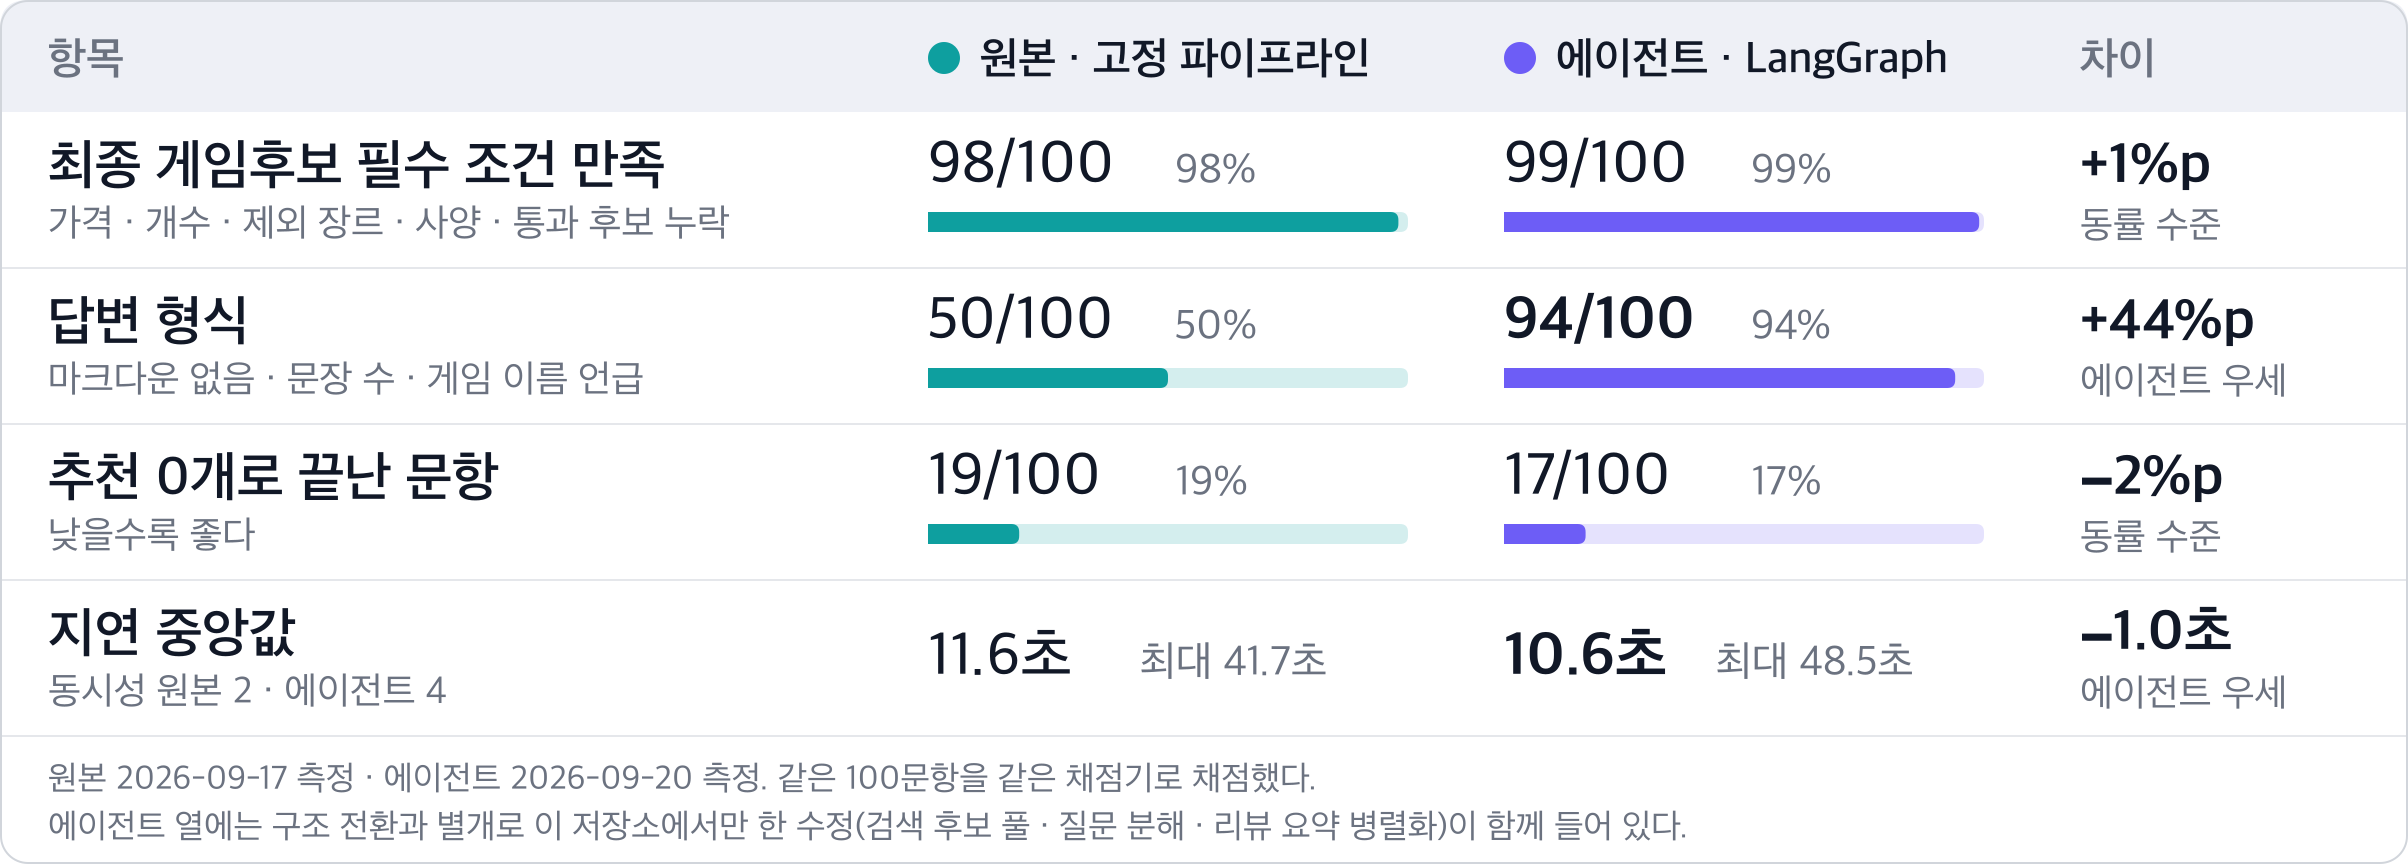
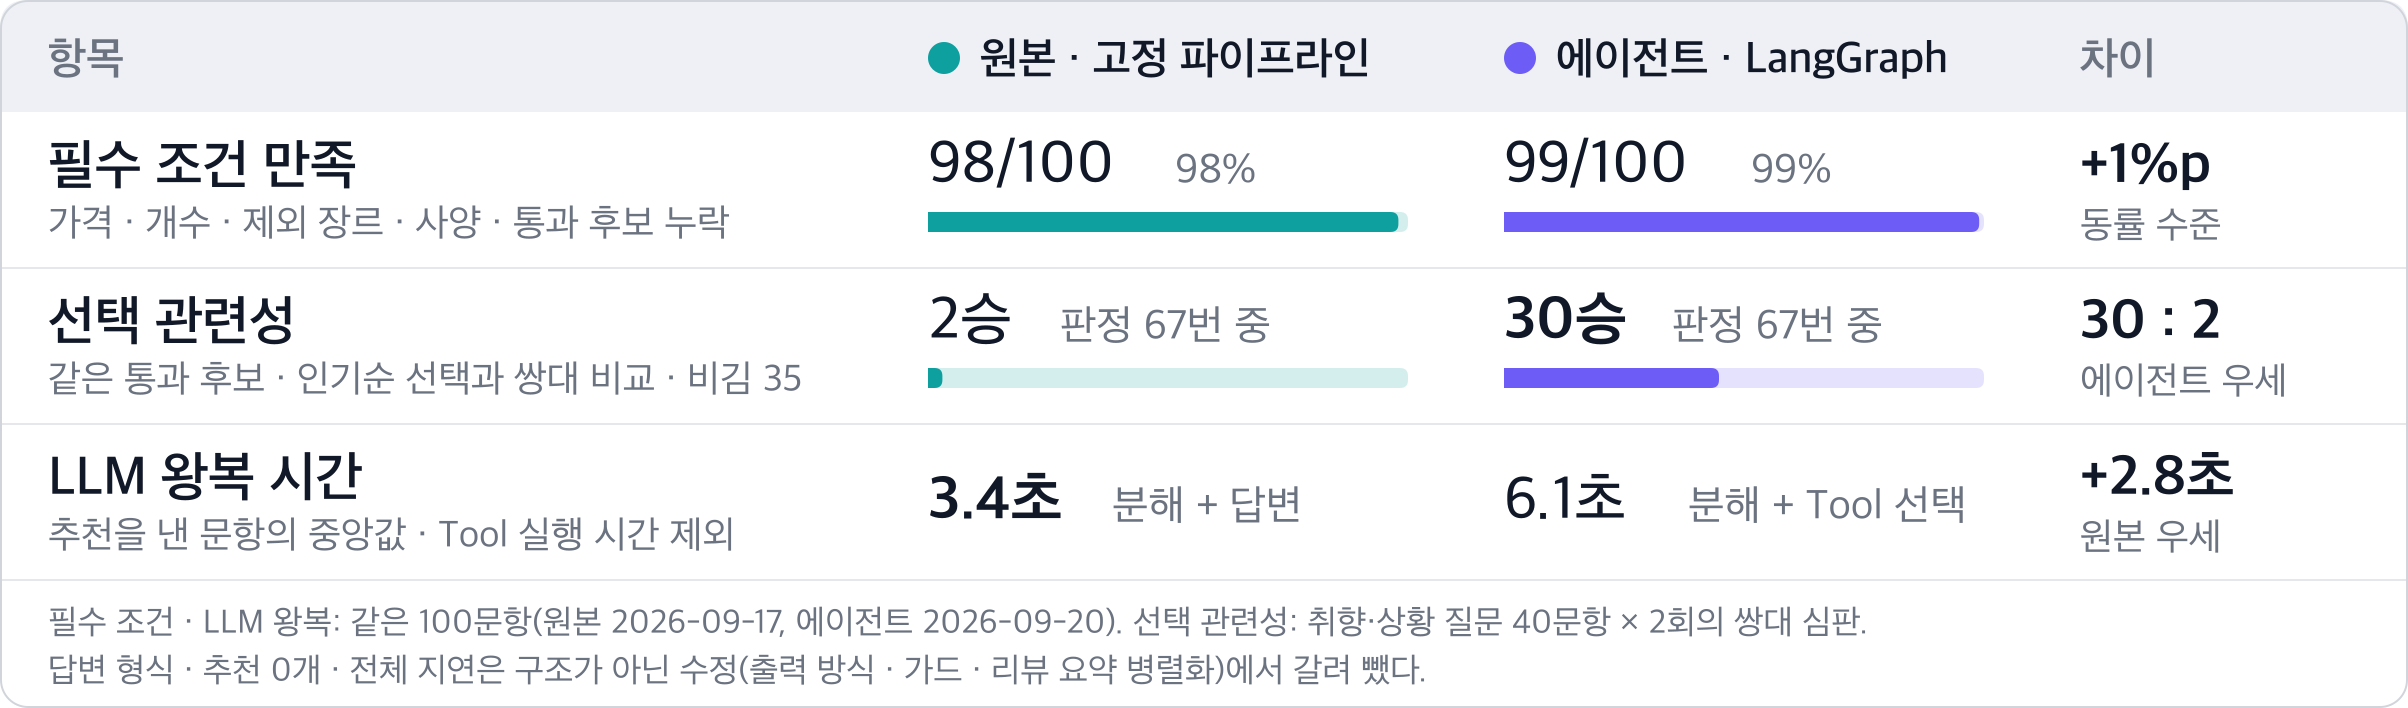
[DOCS] 비교 차트를 구조에서 나온 차이 세 행으로 다시 그린다
차트의 네 행 중 답변 형식·추천 0개·전체 지연은 고정 파이프라인과 에이전트의 구조가 아니라 이
저장소에서만 한 수정(구조화 출력 필드와 이름 되묻기, 빈 초안 되묻기와 검색 수정, 리뷰 요약 병렬화)에서
갈린 수치였다. 구조에서 나온 것만 남긴다.

- 필수 조건 만족 98 대 99: 선택을 LLM에 맡겨도 준수가 유지된다.
- 선택 관련성 2승 대 30승(비김 35): 같은 통과 후보에서 고르는 주체만 다른 쌍대 비교(evals/relevance).
- LLM 왕복 시간 3.4초 대 6.1초: 에이전트는 Tool을 고르는 왕복이 더 든다.

전체 지연은 에이전트가 더 짧지만(추천을 낸 문항 13.55초 대 11.02초) 구조의 효과와 부호가 반대다.
evals/agent_e2e/latency_breakdown.py가 저장된 단계 타임라인으로 요청당 시간을 LLM 왕복과 Tool·I/O로
나눈다. Tool·I/O가 5초 넘게 짧고 그중 3.75초가 리뷰 요약이다. 가격·사양의 병렬 실행은 원본도 한다.

REPORT에 답변 형식 차이의 원인을 기록에서 확인해 적는다. 문장 수 위반은 5개 추천에서 일반 문장을 하나
더 쓰는 것(2 + 5 = 7문장), 마크다운 위반 17건 중 15건은 자유 텍스트 답변의 굵게 표시다.

외부 API를 부르지 않았다.

diff --git a/evals/agent_e2e/latency_breakdown.py b/evals/agent_e2e/latency_breakdown.py
@@ -1,0 +1,112 @@
+"""저장된 실행 기록의 단계 타임라인으로 요청당 시간을 LLM 왕복과 Tool·I/O로 나눈다.
+
+외부 API를 부르지 않는다. 전체 지연은 두 저장소의 구조를 비교하는 수치로 쓸 수 없다. 에이전트
+저장소에만 있는 I/O 패치(리뷰 요약 병렬화 등)가 Tool 쪽 시간을 줄이기 때문이다. 구조가 만드는 차이는
+LLM 왕복에 있으므로 둘을 나눠서 본다.
+
+- LLM 왕복
+  - 원본(고정 파이프라인): `질문 분해` + `최종 답변 생성`
+  - 에이전트: `질문 분해` + `에이전트 추론` 구간에서 Tool 단계가 돌지 않은 시간(Tool을 고르는 왕복)
+- Tool·I/O: Tool 단계 구간의 합집합. 병렬로 돈 단계는 겹친 만큼 한 번만 센다.
+  사양 판정과 리뷰 요약 안의 LLM 호출은 두 저장소 모두 Tool 단계 안에 있어 이쪽에 들어간다.
+
+빈 추천은 Tool을 거의 돌리지 않고 끝나므로 기본으로 추천을 낸 문항만 본다.
+
+    .venv/bin/python -m evals.agent_e2e.latency_breakdown evals/agent_e2e/runs/<UTC timestamp> [...]
+"""
+
+import argparse
+import json
+import statistics
+from pathlib import Path
+
+PARSE_STAGE = "질문 분해"
+AGENT_STAGE = "에이전트 추론"
+ANSWER_STAGE = "최종 답변 생성"
+TOOL_STAGES = frozenset({"게임 검색", "가격", "하드웨어", "리뷰 점수", "리뷰 요약", "미디어"})
+
+Span = tuple[float, float]
+
+
+def spans(stages: list[dict]) -> dict[str, list[Span]]:
+    """단계별 (시작, 끝) 목록. 같은 단계가 여러 번 나오면 시작한 순서대로 짝을 짓는다."""
+    started: dict[str, list[float]] = {}
+    found: dict[str, list[Span]] = {}
+    for event in stages:
+        stage = event["stage"]
+        if event["status"] == "started":
+            started.setdefault(stage, []).append(event["t"])
+        elif started.get(stage):
+            found.setdefault(stage, []).append((started[stage].pop(0), event["t"]))
+    return found
+
+
+def covered(intervals: list[Span]) -> float:
+    """구간들의 합집합 길이. 겹친 부분은 한 번만 센다."""
+    total, end = 0.0, None
+    for start, stop in sorted(intervals):
+        if end is None or start > end:
+            total += stop - start
+            end = stop
+        elif stop > end:
+            total += stop - end
+            end = stop
+    return total
+
+
+def breakdown(stages: list[dict]) -> dict[str, float]:
+    """기록 하나의 LLM 왕복·Tool 시간. `에이전트 추론` 단계가 있으면 에이전트 기록으로 본다."""
+    found = spans(stages)
+    tools = [span for stage in TOOL_STAGES for span in found.get(stage, [])]
+    llm = sum(stop - start for start, stop in found.get(PARSE_STAGE, []))
+    if AGENT_STAGE in found:
+        begin, finish = found[AGENT_STAGE][0]
+        inside = [
+            (max(start, begin), min(stop, finish))
+            for start, stop in tools
+            if start < finish and stop > begin
+        ]
+        llm += (finish - begin) - covered(inside)
+    else:
+        llm += sum(stop - start for start, stop in found.get(ANSWER_STAGE, []))
+    reviews = sum(stop - start for start, stop in found.get("리뷰 요약", []))
+    return {"llm": llm, "tools": covered(tools), "reviews": reviews}
+
+
+def summarize(records: list[dict], *, with_games_only: bool = True) -> dict:
+    scored = [record for record in records if not record.get("error")]
+    if with_games_only:
+        scored = [record for record in scored if record.get("recommended_count")]
+    parts = [breakdown(record["stages"]) for record in scored]
+
+    def median(values: list[float]) -> float | None:
+        return round(statistics.median(values), 2) if values else None
+
+    return {
+        "scored": len(scored),
+        "total_median": median([record["seconds"] for record in scored]),
+        "llm_median": median([part["llm"] for part in parts]),
+        "tools_median": median([part["tools"] for part in parts]),
+        "reviews_median": median([part["reviews"] for part in parts]),
+    }
+
+
+def main() -> None:
+    parser = argparse.ArgumentParser(description=__doc__.splitlines()[0])
+    parser.add_argument("run_dirs", nargs="+", type=Path)
+    parser.add_argument("--all", action="store_true", help="추천 0개로 끝난 문항도 넣는다")
+    args = parser.parse_args()
+    for run_dir in args.run_dirs:
+        lines = (run_dir / "results.jsonl").read_text(encoding="utf-8").splitlines()
+        summary = summarize(
+            [json.loads(line) for line in lines if line.strip()], with_games_only=not args.all
+        )
+        print(
+            f"{run_dir.name}: {summary['scored']}문항 · 전체 {summary['total_median']}초 · "
+            f"LLM 왕복 {summary['llm_median']}초 · Tool·I/O {summary['tools_median']}초"
+            f"(그중 리뷰 요약 {summary['reviews_median']}초)"
+        )
+
+
+if __name__ == "__main__":
+    main()

diff --git a/evals/agent_e2e/test_latency_breakdown.py b/evals/agent_e2e/test_latency_breakdown.py
@@ -1,0 +1,71 @@
+"""지연 분해의 순수 로직. 저장된 기록의 단계 타임라인만 쓴다."""
+
+import pytest
+
+from evals.agent_e2e.latency_breakdown import breakdown, covered, summarize
+
+
+def ev(t, stage, status):
+    return {"t": t, "stage": stage, "status": status, "detail": None}
+
+
+def timeline(*rows):
+    """(단계, 시작, 끝) 목록을 시각순 이벤트로 바꾼다."""
+    events = [ev(start, stage, "started") for stage, start, _ in rows]
+    events += [ev(stop, stage, "completed") for stage, _, stop in rows]
+    return sorted(events, key=lambda event: (event["t"], event["status"] != "started"))
+
+
+def test_covered_counts_overlap_once():
+    assert covered([(1.0, 3.0), (2.0, 4.0), (6.0, 7.0)]) == 4.0
+    assert covered([(1.0, 5.0), (2.0, 3.0)]) == 4.0
+    assert covered([]) == 0.0
+
+
+def test_baseline_llm_time_is_parsing_plus_final_answer():
+    stages = timeline(
+        ("질문 분해", 0.0, 1.0),
+        ("게임 검색", 1.0, 3.0),
+        ("가격", 3.0, 4.0),
+        ("리뷰 요약", 4.0, 10.0),
+        ("최종 답변 생성", 10.0, 12.5),
+    )
+    assert breakdown(stages) == pytest.approx({"llm": 3.5, "tools": 9.0, "reviews": 6.0})
+
+
+def test_agent_llm_time_is_the_reasoning_span_without_tools():
+    # 가격·사양은 같은 턴에 병렬로 돈다. 추론이 끝난 뒤의 리뷰 요약은 러너가 부른 것이다
+    stages = timeline(
+        ("질문 분해", 0.0, 1.0),
+        ("에이전트 추론", 1.0, 9.0),
+        ("게임 검색", 2.0, 4.0),
+        ("가격", 5.0, 6.0),
+        ("하드웨어", 5.0, 6.5),
+        ("리뷰 요약", 9.0, 11.0),
+    )
+    # 추론 8초 중 Tool이 돈 시간은 2 + 1.5초다
+    assert breakdown(stages) == pytest.approx({"llm": 5.5, "tools": 5.5, "reviews": 2.0})
+
+
+def test_failed_tool_stage_still_counts_as_tool_time():
+    stages = [
+        ev(0.0, "질문 분해", "started"),
+        ev(1.0, "질문 분해", "completed"),
+        ev(1.0, "에이전트 추론", "started"),
+        ev(2.0, "리뷰 요약", "started"),
+        ev(5.0, "리뷰 요약", "failed"),
+        ev(6.0, "에이전트 추론", "completed"),
+    ]
+    assert breakdown(stages) == pytest.approx({"llm": 3.0, "tools": 3.0, "reviews": 3.0})
+
+
+def test_summary_skips_errors_and_empty_recommendations():
+    stages = timeline(("질문 분해", 0.0, 1.0), ("최종 답변 생성", 1.0, 2.0))
+    records = [
+        {"id": "E1", "seconds": 2.0, "recommended_count": 2, "stages": stages},
+        {"id": "E2", "seconds": 1.0, "recommended_count": 0, "stages": stages},
+        {"id": "E3", "seconds": 9.0, "error": "X: y"},
+    ]
+    assert summarize(records)["scored"] == 1
+    assert summarize(records, with_games_only=False)["scored"] == 2
+    assert summarize([])["llm_median"] is None

diff --git a/evals/agent_e2e/REPORT.md b/evals/agent_e2e/REPORT.md
@@ -697,7 +697,8 @@ Tool을 실행하지 않고 안내 문장을 돌려주고, 한 번 거부된 Too
 | 지연 중앙값 (추천을 낸 문항만) | 11.57초 (13.55초) | 10.57초 (11.02초) |
 | 동시성 | 2 | 4 |
 
-`docs/eval_comparison.*`의 네 행(조건, 답변 형식, 추천 0개, 지연 중앙값)을 이 표의 수치로 바꿨다.
+`docs/eval_comparison.*`의 네 행(조건, 답변 형식, 추천 0개, 지연 중앙값)을 이 표의 수치로 바꿨다가, 같은 날
+구조에서 나온 차이만 남기도록 다시 그렸다([아래 절](#차트를-구조에서-나온-차이-세-행으로-다시-그렸다)).
 
 **이 표는 두 서비스의 비교이지 두 구조의 비교가 아니다.** 에이전트 쪽에는 이 저장소에서만 한 수정이 함께
 들어 있다. 검색 후보 풀 교체(`sort id asc` → 많이 평가된 순), 질문 분해의 제외 표현, 분류 id 검색,
@@ -713,5 +714,49 @@ Tool을 실행하지 않고 안내 문장을 돌려주고, 한 번 거부된 Too
 | 마크다운·표·링크 | 17 | 1 |
 | 추천한 게임 이름이 답변에 없음 | 11 | 5 |
 
-원본의 답변 프롬프트에도 "마크다운 없이 3~6문장"이 적혀 있다. 규칙이 없어서 생긴 차이는 아니고, 원인은
-이 측정으로는 알 수 없다. 에이전트의 이름 누락은 러너가 한 번 되물은 뒤에도 남은 것이다.
+원본의 답변 프롬프트에도 "마크다운 없이 3~6문장, 첫 문장은 조건과 개수, 게임마다 한 줄 이유"가 적혀
+있다. 규칙이 없어서 생긴 차이가 아니다. 기록의 답변을 뜯어 보면 이렇다.
+
+- **문장 수 33건은 모두 너무 긴 쪽이고, 5개를 추천할 때 몰려 있다**(5개 추천 49건 중 29건이 6문장 초과).
+  게임마다 한 문장씩 쓰는 것은 두 쪽이 같다(게임을 말하는 문장이 5개인 답변: 원본 28/49, 에이전트 29/48).
+  다른 것은 게임 이름이 없는 일반 문장의 수다. 원본은 2개 이상이 47/49이고 에이전트는 1개(첫 문장)가
+  41/48이다. 2 + 5 = 7문장과 1 + 5 = 6문장, 상한에서 한 문장 차이다.
+- **마크다운 17건 중 15건은 게임 이름을 `**굵게**` 쓴 것이다.** 원본은 답변을 자유 텍스트로 받고
+  (`responses.create`의 `output_text`), 에이전트는 구조화 출력의 `answer` 필드에 쓴다. 두 프롬프트 모두
+  제목·표·링크만 금지하고 굵게는 말하지 않는다.
+- **이름 누락은 러너가 한 번 되묻기 때문에 적다.** 에이전트의 5건은 되물은 뒤에도 남은 것이고, 되묻기를
+  넣기 전에는 16~32문항이었다.
+
+세 가지 모두 원본에도 옮길 수 있는 선택(출력 방식, 가드)이다. 에이전트 구조에서 나온 차이가 아니다.
+
+### 차트를 구조에서 나온 차이 세 행으로 다시 그렸다
+
+위 표의 차이는 대부분 구조가 아니라 이 저장소에서만 한 수정에서 나온다. 그래서 `docs/eval_comparison.*`에는
+고정 파이프라인과 에이전트의 **구조에서 나온 수치만** 남겼다.
+
+| 행 | 원본 | 에이전트 | 왜 구조의 차이인가 |
+| --- | --- | --- | --- |
+| 필수 조건 만족 | 98/100 | 99/100 | 선택을 LLM에 맡겨도 준수가 유지된다(판정·후검증은 코드) |
+| 선택 관련성 | 2승 | 30승 (비김 35) | 같은 통과 후보·같은 판정에서 고르는 주체만 다르다 ([evals/relevance](../relevance/REPORT.md)) |
+| LLM 왕복 시간 | 3.35초 | 6.12초 | 에이전트는 Tool을 고르는 왕복이 더 든다 |
+
+뺀 행은 답변 형식(출력 방식과 가드, 위 분석), 추천 0개(빈 초안 되묻기와 검색 수정. 지금은 19 대 17로
+동률 수준), 전체 지연이다.
+
+**전체 지연은 구조의 효과와 부호가 반대다.** [latency_breakdown.py](latency_breakdown.py)가 단계 타임라인으로
+요청당 시간을 나눈다(추천을 낸 문항의 중앙값, 외부 API를 부르지 않는다).
+
+| | 문항 | 전체 | LLM 왕복 | Tool·I/O | 그중 리뷰 요약 |
+| --- | --- | --- | --- | --- | --- |
+| 원본 `20260917T075948Z` (동시성 2) | 81 | 13.55초 | 3.35초 | 10.07초 | 5.96초 |
+| 에이전트 `20260919T161404Z` (동시성 2) | 82 | 10.96초 | 6.11초 | 4.59초 | 2.21초 |
+| 에이전트 `20260919T171421Z` (동시성 4) | 83 | 11.02초 | 6.12초 | 4.69초 | 2.21초 |
+
+- LLM 왕복은 원본이 `질문 분해` + `최종 답변 생성`, 에이전트가 `질문 분해` + `에이전트 추론` 구간에서 Tool
+  단계가 돌지 않은 시간이다. 사양 판정과 리뷰 요약 안의 LLM 호출은 두 저장소 모두 Tool 단계 안에 있어
+  Tool·I/O로 센다.
+- 에이전트가 전체로 더 빠른 것은 Tool·I/O가 5초 넘게 짧아서다. 그중 3.75초는 리뷰 요약이다(5.96 → 2.21초).
+  게임별 병렬 호출은 이 저장소에만 있는 패치다. 나머지 1.6초쯤은 나누어 재지 않았다(이 저장소에는 사양
+  조회 묶음과 IGDB 토큰 재사용(#26) 같은 I/O 패치가 더 있다). 가격·사양의 병렬 실행은 원본도 한다(97문항에서
+  두 단계가 같은 시각에 시작한다). 구조가 더한 것은 LLM 왕복 +2.77초다.
+- 동시성이 다른 두 에이전트 기록에서 분해 결과가 거의 같다. 이 비교는 동시성 설정에 기대지 않는다.

diff --git a/README.md b/README.md
@@ -76,16 +76,28 @@ QR을 찍으면 배포된 프론트엔드
   복합 조건 질문에서 원본은 20개, 에이전트는 19개를 제외 근거로 남깁니다.
 
 2026-09-17의 에이전트 측정(19.7~40.1초. 같은 Tool을 되풀이해 부르고, LLM이 고른 후보만 조회하던 때)은
-REPORT에 그대로 남겨 두었습니다. 100문항 평가로 본 전후 비교는 아래 그림이고, 근거는
-[evals/agent_e2e/REPORT.md](evals/agent_e2e/REPORT.md)와 [evals/search_pool/REPORT.md](evals/search_pool/REPORT.md)에
-있습니다.
+REPORT에 그대로 남겨 두었습니다.
 
-![엔드투엔드 100문항 평가의 원본·에이전트 비교](docs/eval_comparison.png)
+### 구조에서 나온 차이
 
-에이전트 열의 수치에는 구조 전환과 별개로 이 저장소에서만 한 수정(검색 후보 풀 교체, 질문 분해의 제외
-표현, 리뷰 요약 병렬화)이 함께 들어 있습니다. 구조에서 나온 차이만 따로 잰 것은
-[evals/relevance/REPORT.md](evals/relevance/REPORT.md)입니다(같은 통과 후보에서 에이전트의 선택과 인기순
-선택을 쌍대 비교). 그림을 고칠 때는 [SVG](docs/eval_comparison.svg)를 씁니다.
+![고정 파이프라인과 에이전트의 구조에서 나온 차이](docs/eval_comparison.png)
+
+두 저장소의 수치 중 **구조(고정 파이프라인 대 LLM이 도구를 고르는 에이전트)에서 나온 것만** 남긴 그림입니다.
+고칠 때는 [SVG](docs/eval_comparison.svg)를 씁니다.
+
+- **필수 조건 만족은 동률입니다(98 대 99).** 선택을 LLM에 맡겨도 가격·사양·개수·제외 조건의 준수가 깨지지
+  않습니다. 판정과 후검증을 코드가 하기 때문입니다.
+- **선택 관련성이 구조의 이득입니다.** 같은 통과 후보에서 에이전트가 고른 목록과, 고정 파이프라인이 했을
+  선택(인기순으로 자른 목록)을 LLM 심판이 자리를 바꿔 두 번 비교했습니다. 판정 67번 중 에이전트 30승,
+  인기순 2승, 비김 35입니다([evals/relevance/REPORT.md](evals/relevance/REPORT.md)).
+- **LLM 왕복 시간이 구조의 비용입니다.** 원본은 질문 분해와 최종 답변에 3.4초, 에이전트는 질문 분해와
+  Tool을 고르는 추론에 6.1초를 씁니다(추천을 낸 문항의 중앙값,
+  [latency_breakdown.py](evals/agent_e2e/latency_breakdown.py)).
+
+답변 형식(50 대 94), 추천 0개(19 대 17), 전체 지연(11.6초 대 10.6초)은 그림에서 뺐습니다. 구조가 아니라
+이 저장소에서만 한 수정에서 갈린 수치이기 때문입니다. 답변 형식은 답변을 구조화 출력의 필드로 받는 것과
+러너의 이름 되묻기, 추천 0개는 빈 초안 되묻기와 검색 수정, 전체 지연은 리뷰 요약 병렬화 같은 I/O 패치의
+영향입니다. 수치와 근거는 [evals/agent_e2e/REPORT.md](evals/agent_e2e/REPORT.md)에 있습니다.
 
 ## 에이전트 흐름
 
@@ -475,7 +487,7 @@ pyproject.toml             의존성·빌드·pytest·Ruff·Vercel 설정
 Makefile                   개발 서버·검증 명령
 TEAM.md                    역할별 담당 파일·연결 계약
 docs/game_recommend_flow.*  서비스 처리 흐름 다이어그램 (PNG 문서용 · SVG 수정용)
-docs/eval_comparison.*     엔드투엔드 100문항 평가의 원본·에이전트 비교 (rsvg-convert -z 2로 PNG를 만든다)
+docs/eval_comparison.*     구조에서 나온 차이 세 행: 조건 만족·선택 관련성·LLM 왕복 (rsvg-convert -z 2로 PNG를 만든다)
 app/
 ├─ main.py                  FastAPI 앱. 시작 시 조립, 종료 시 클라이언트 정리
 ├─ assembly.py              .env 설정으로 ToolSet을 만들고 에이전트 추천기를 조립
